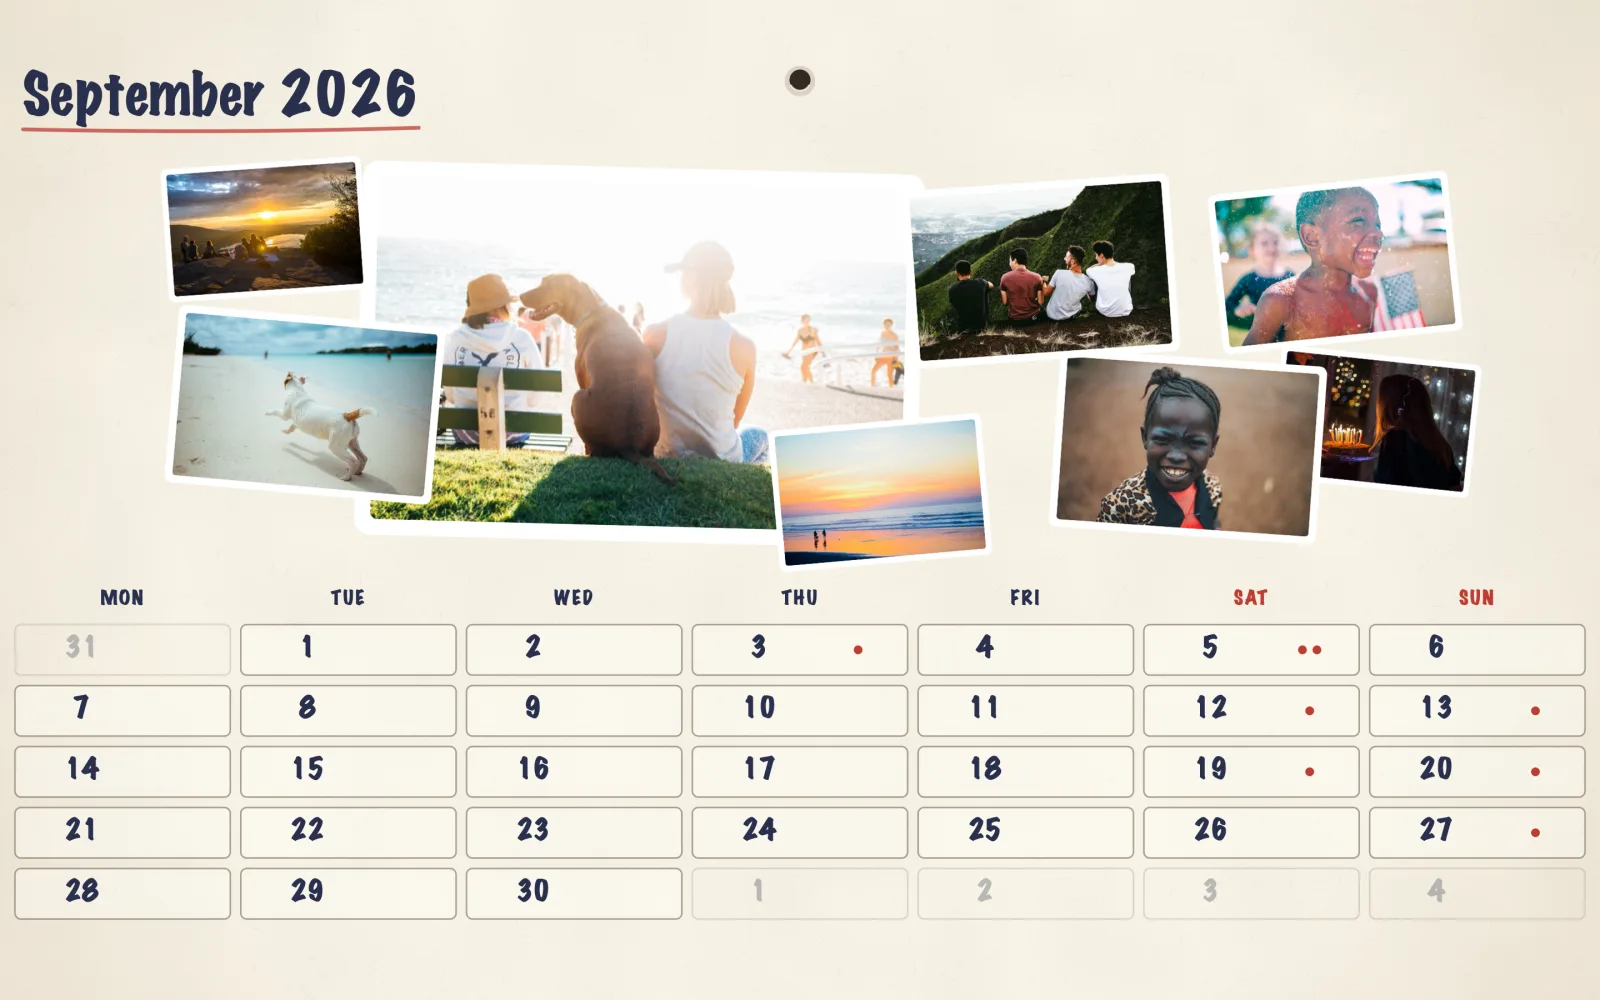
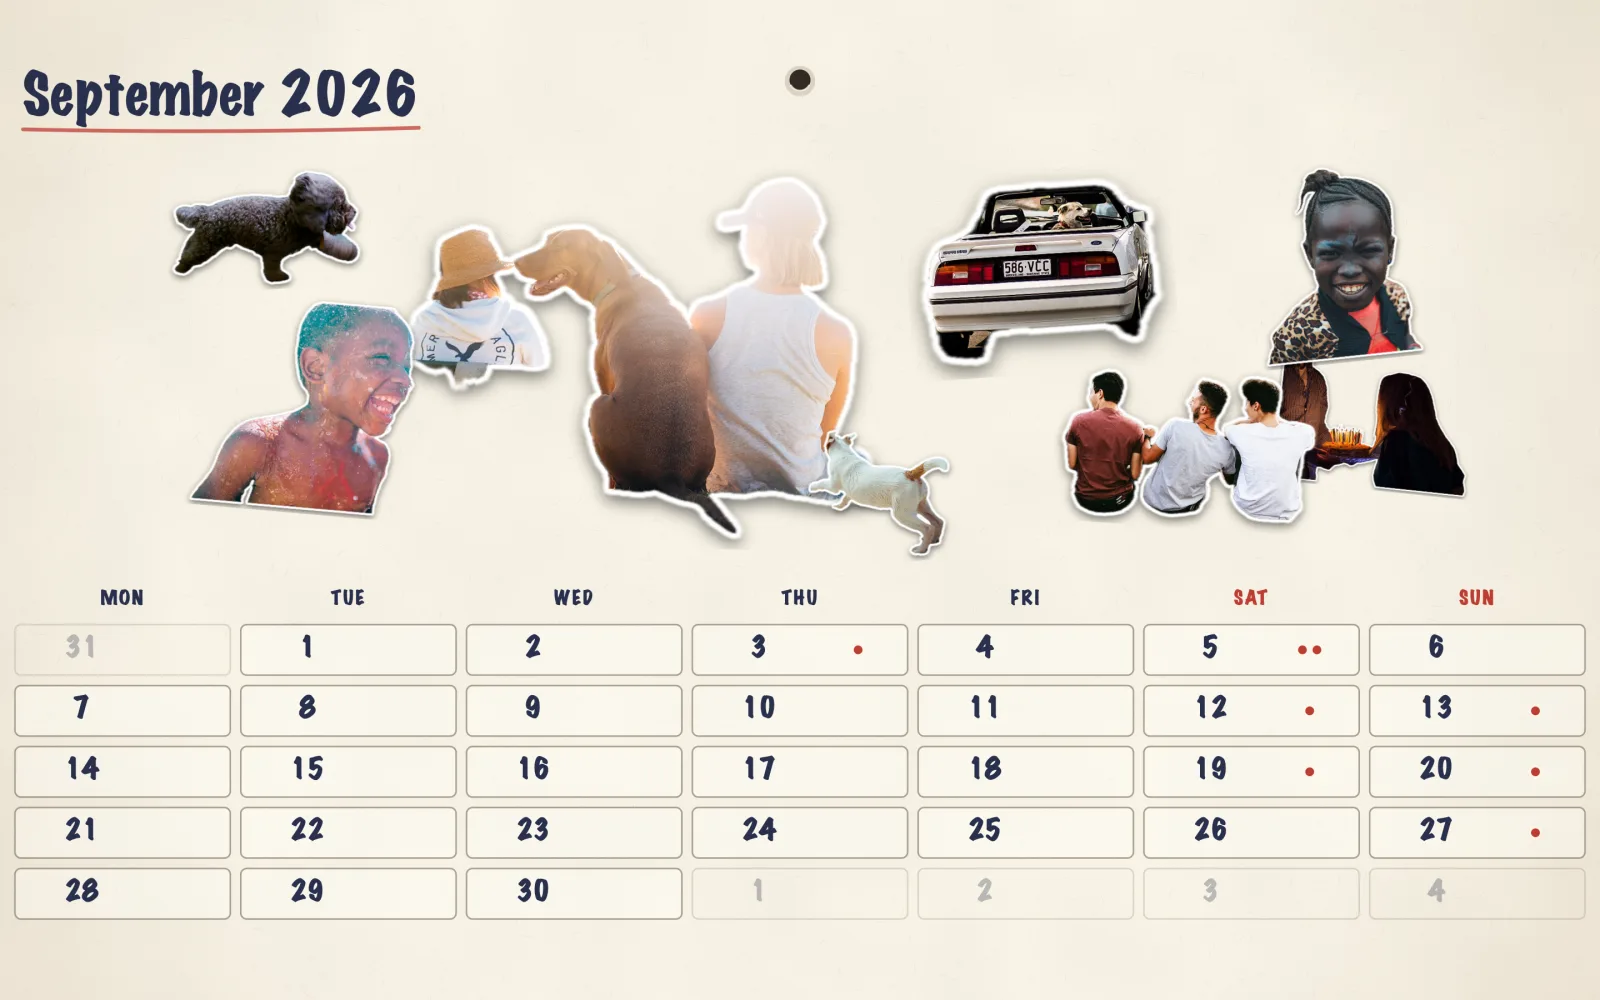
Timeline renders made with Sticta's real cutout and polaroid styles

Changed region(s): [[0.0938, 0.155, 0.9375, 0.589]]

diff --git a/assets/home/CREDITS.md b/assets/home/CREDITS.md
@@ -19,27 +19,20 @@ Earlier stickers (lena, maya, crew, duo, cam) come from the CC0 photos "90s Chic
 
 ## Timeline renders
 
-timeline-wallcalendar.webp, timeline-clothesline.webp, timeline-filmstrip.webp and timeline-trip.webp are real Sticta Timeline wallpapers (`tack-cli timeline-marketing --set --photos`), with these CC0 photos printed as stickers (Unsplash via Wikimedia Commons):
+timeline-wallcalendar.webp, timeline-clothesline.webp, timeline-filmstrip.webp and timeline-trip.webp are real Sticta Timeline wallpapers (`tack-cli timeline-marketing --set --photos`): each photo goes through the app's own cutout and styling, as cut-out stickers (wall calendar, film strip) or polaroids of the original photo (clothesline, trip). CC0 photos, Unsplash via Wikimedia Commons:
 
 - [Boy laughs and splashes (Unsplash).jpg](https://commons.wikimedia.org/wiki/File:Boy_laughs_and_splashes_(Unsplash).jpg)
-- [Crowded Barcelona beach (Unsplash).jpg](https://commons.wikimedia.org/wiki/File:Crowded_Barcelona_beach_(Unsplash).jpg)
 - [Cute puppy running (Unsplash).jpg](https://commons.wikimedia.org/wiki/File:Cute_puppy_running_(Unsplash).jpg)
+- [Dog in convertible sports car (Unsplash).jpg](https://commons.wikimedia.org/wiki/File:Dog_in_convertible_sports_car_(Unsplash).jpg)
 - [Dog on a beach (Unsplash).jpg](https://commons.wikimedia.org/wiki/File:Dog_on_a_beach_(Unsplash).jpg)
 - [Family at Cottesloe beach (Unsplash).jpg](https://commons.wikimedia.org/wiki/File:Family_at_Cottesloe_beach_(Unsplash).jpg)
-- [Family watching beach sunset (Unsplash).jpg](https://commons.wikimedia.org/wiki/File:Family_watching_beach_sunset_(Unsplash).jpg)
 - [Ginger long-haired cat (Unsplash).jpg](https://commons.wikimedia.org/wiki/File:Ginger_long-haired_cat_(Unsplash).jpg)
 - [Happy Birthday! (Unsplash).jpg](https://commons.wikimedia.org/wiki/File:Happy_Birthday!_(Unsplash).jpg)
 - [Happy Child (Unsplash).jpg](https://commons.wikimedia.org/wiki/File:Happy_Child_(Unsplash).jpg)
 - [Laughing bride with blowing veil (Unsplash).jpg](https://commons.wikimedia.org/wiki/File:Laughing_bride_with_blowing_veil_(Unsplash).jpg)
-- [Lisbon alley staircase (Unsplash).jpg](https://commons.wikimedia.org/wiki/File:Lisbon_alley_staircase_(Unsplash).jpg)
 - [Lisbon beach featuring boat (Unsplash).jpg](https://commons.wikimedia.org/wiki/File:Lisbon_beach_featuring_boat_(Unsplash).jpg)
-- [Lisbon street (Unsplash).jpg](https://commons.wikimedia.org/wiki/File:Lisbon_street_(Unsplash).jpg)
 - [Man and woman laugh in snow (Unsplash).jpg](https://commons.wikimedia.org/wiki/File:Man_and_woman_laugh_in_snow_(Unsplash).jpg)
 - [Men laughing by green valley (Unsplash).jpg](https://commons.wikimedia.org/wiki/File:Men_laughing_by_green_valley_(Unsplash).jpg)
 - [On a balcony in Barcelona (Unsplash).jpg](https://commons.wikimedia.org/wiki/File:On_a_balcony_in_Barcelona_(Unsplash).jpg)
-- [On the roofs of Seville (Unsplash).jpg](https://commons.wikimedia.org/wiki/File:On_the_roofs_of_Seville_(Unsplash).jpg)
-- [Royal Alcázar of Seville, Sevilla, Spain (Unsplash).jpg](https://commons.wikimedia.org/wiki/File:Royal_Alc%C3%A1zar_of_Seville,_Sevilla,_Spain_(Unsplash).jpg)
-- [Seville, Spain (Unsplash).jpg](https://commons.wikimedia.org/wiki/File:Seville,_Spain_(Unsplash).jpg)
 - [Sundaycar in Lisbon (Unsplash).jpg](https://commons.wikimedia.org/wiki/File:Sundaycar_in_Lisbon_(Unsplash).jpg)
-- [Sunset Picnic (Unsplash).jpg](https://commons.wikimedia.org/wiki/File:Sunset_Picnic_(Unsplash).jpg)
 - [Woman holding cat (Unsplash).jpg](https://commons.wikimedia.org/wiki/File:Woman_holding_cat_(Unsplash).jpg)
